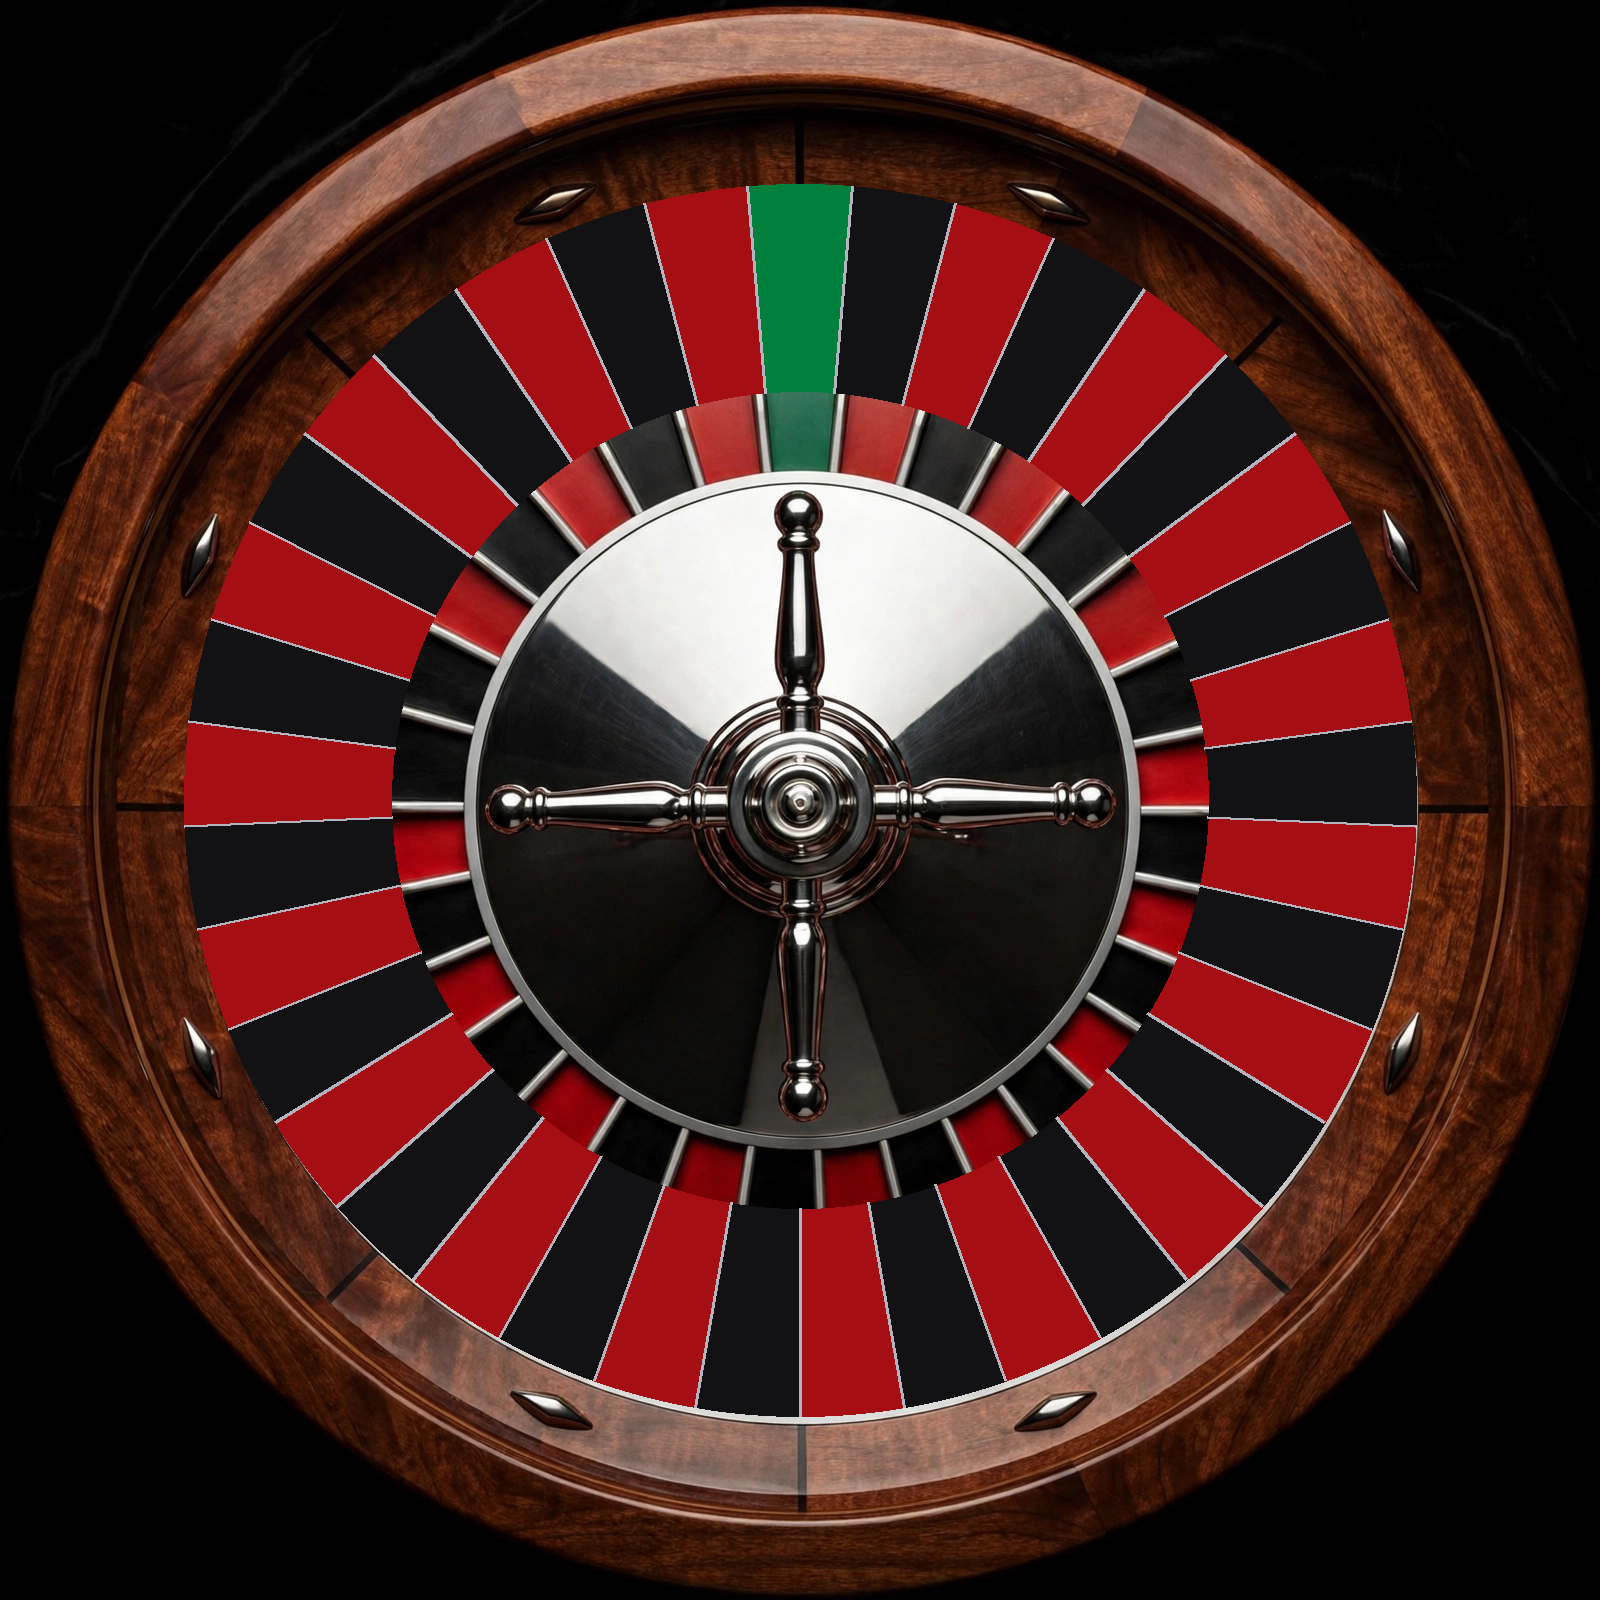
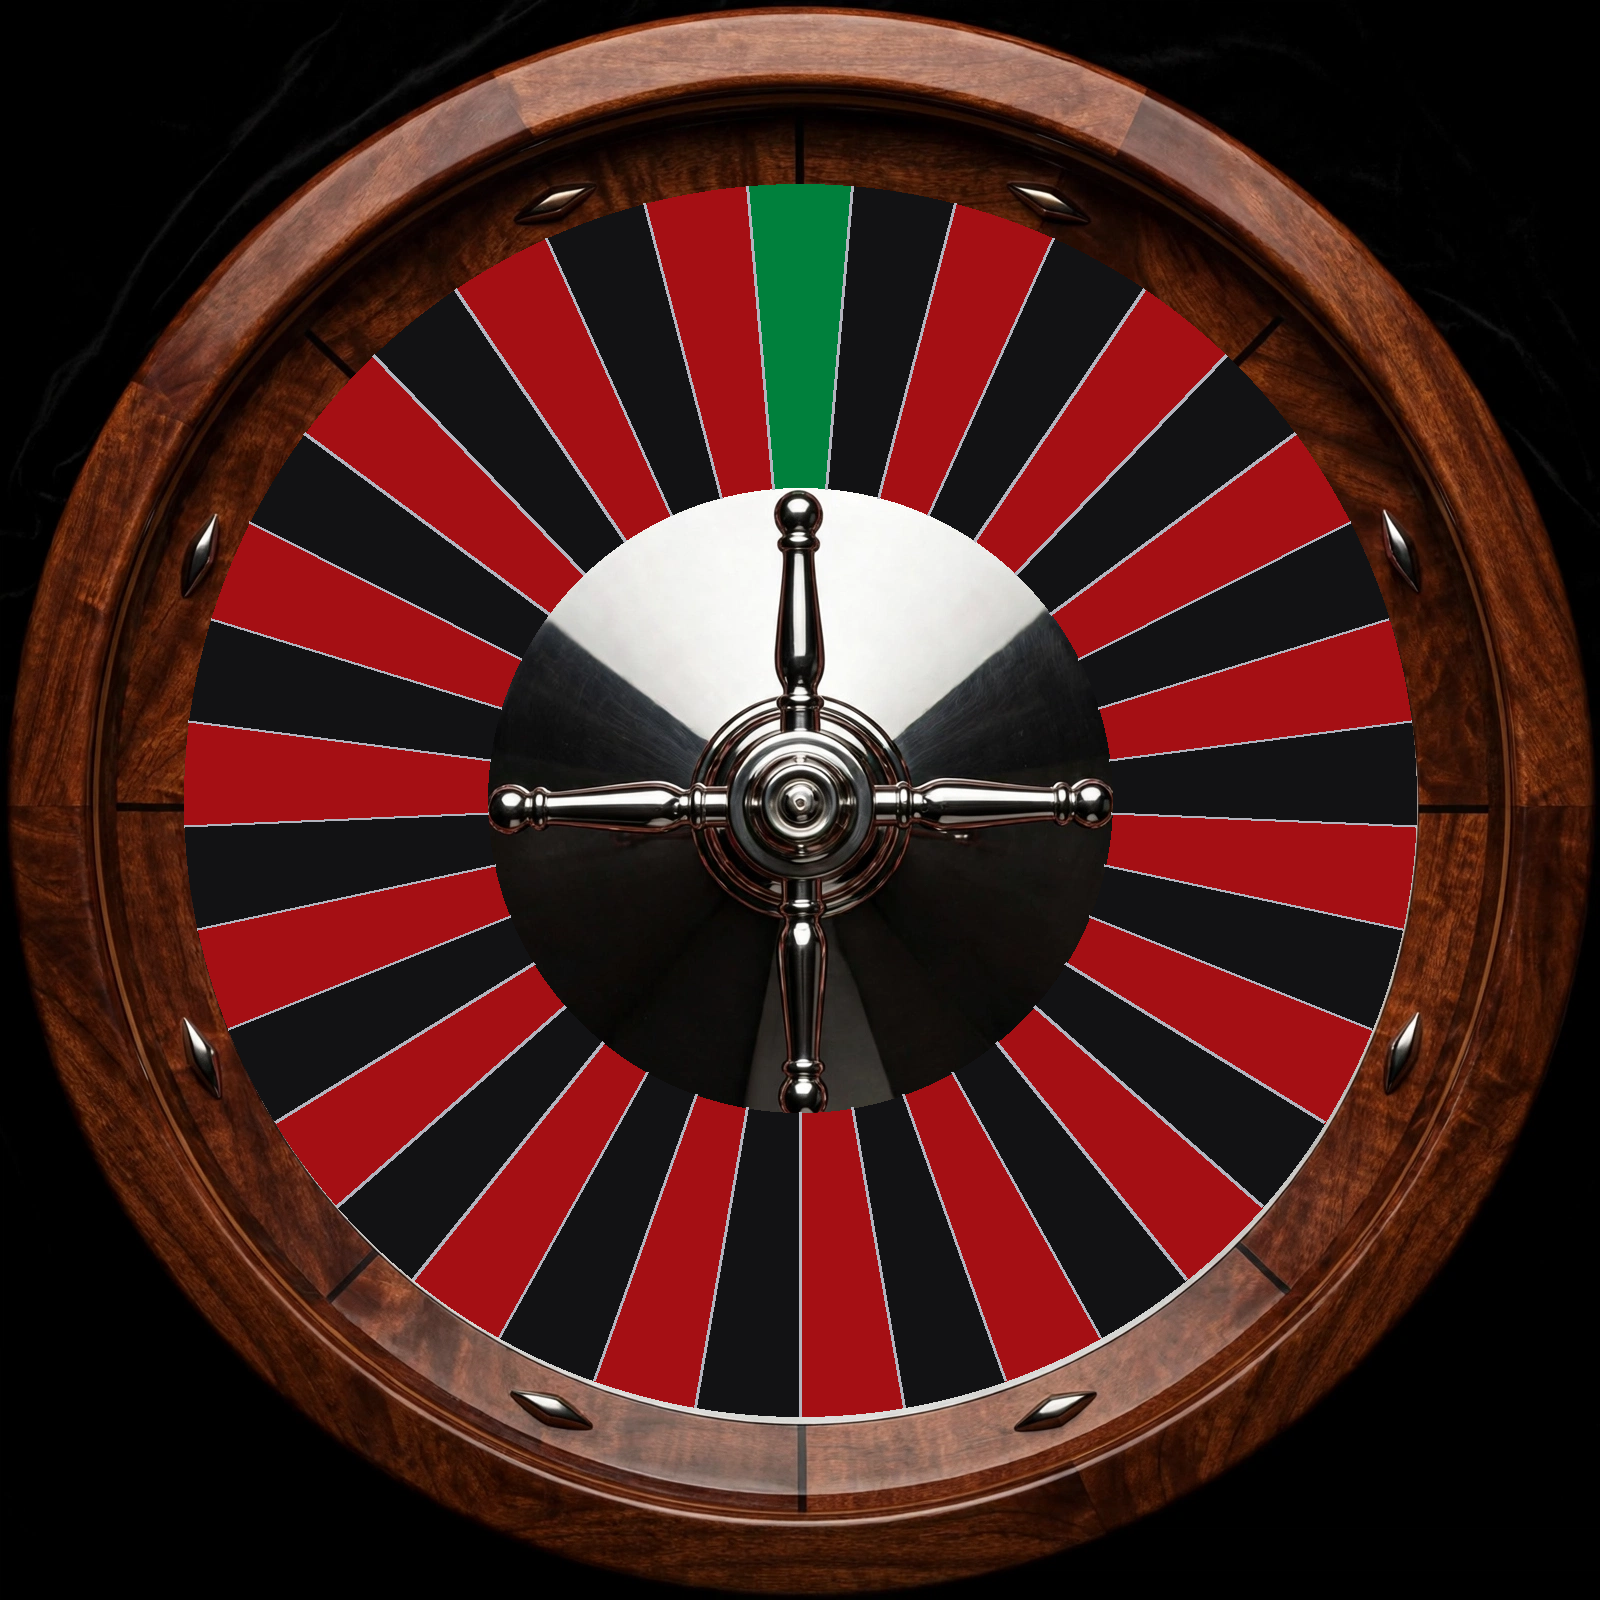
Fix center ring, extend pockets to hub

Changed region(s): [[0.2188, 0.2188, 0.7812, 0.7812]]

diff --git a/services/roulette.py b/services/roulette.py
@@ -39,7 +39,7 @@ def _build_numbered_wheel() -> Image.Image:
     wheel = Image.open(os.path.join(_ASSETS, "roulette_wheel_perfect.png")).convert("RGBA")
     W = wheel.width
     cx = cy = W / 2
-    num_r = int(W * 0.320)  # center of the pocket ring
+    num_r = int(W * 0.290)  # center of the wider pocket ring
     font = _font(int(W * 0.030))  # smaller, refined
 
     for idx, num in enumerate(EUROPEAN_ORDER):
